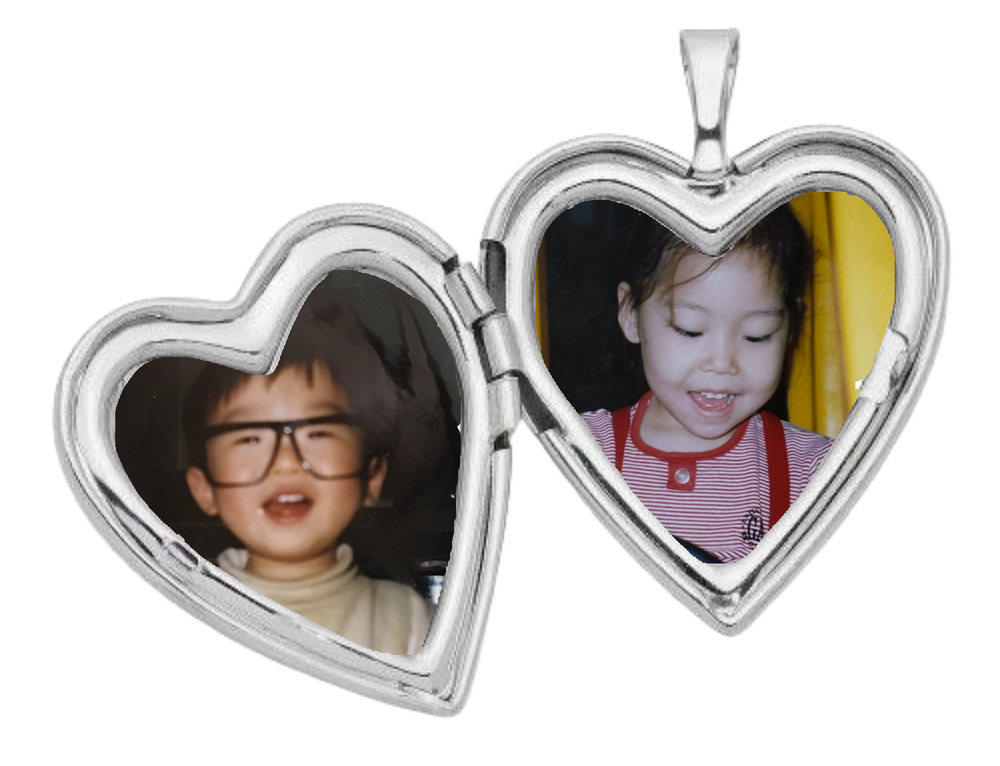
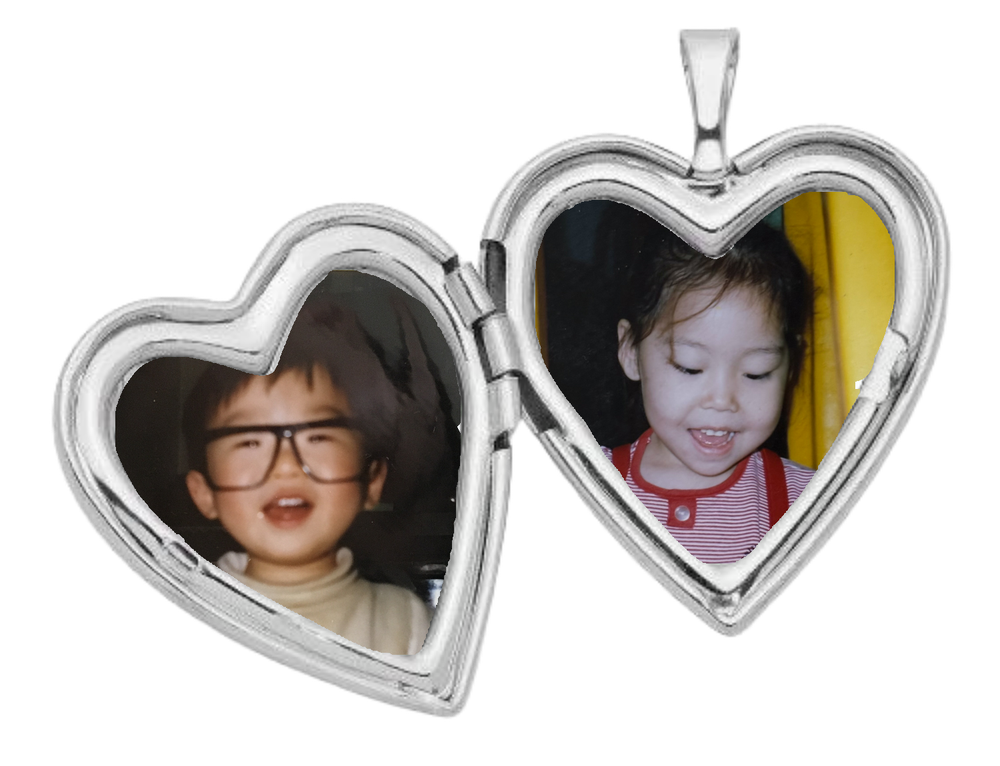
Move locket photos slightly lower inside the hearts

diff --git a/index.html b/index.html
@@ -10,7 +10,7 @@
 <link rel="preconnect" href="https://fonts.googleapis.com">
 <link rel="preconnect" href="https://fonts.gstatic.com" crossorigin>
 <link href="https://fonts.googleapis.com/css2?family=Gaegu:wght@400;700&family=Gowun+Batang:wght@400;700&family=Nothing+You+Could+Do&family=Reenie+Beanie&display=swap" rel="stylesheet">
-<link rel="stylesheet" href="style.css?v=20">
+<link rel="stylesheet" href="style.css?v=21">
 </head>
 <body>
 <main class="wrap">
@@ -28,14 +28,14 @@
   <!-- 2. Our Wedding day -->
   <section class="sec wine day" id="day">
     <h2 class="script big reveal">Our Wedding day</h2>
-    <div class="date-card reveal"><img src="img/card-date.png?v=20" alt="2027년 2월 13일 토요일 오후 12시 10분 원주 빌라드아모르 르블루씨엘홀"><p class="card-venue">원주 빌라드아모르 르블루씨엘홀</p></div>
+    <div class="date-card reveal"><img src="img/card-date.png?v=21" alt="2027년 2월 13일 토요일 오후 12시 10분 원주 빌라드아모르 르블루씨엘홀"><p class="card-venue">원주 빌라드아모르 르블루씨엘홀</p></div>
 
     <p class="parents reveal">
       <span>박금용 · 손선미<em>의 아들</em> <b>상현</b></span>
       <span>이종봉 · 문태숙<em>의 딸</em> <b>가경</b></span>
     </p>
 
-    <div class="locket reveal"><img src="img/locket.png?v=20" alt="신랑신부 로켓 목걸이"></div>
+    <div class="locket reveal"><img src="img/locket.png?v=21" alt="신랑신부 로켓 목걸이"></div>
 
     <div class="tapes reveal">
       <img src="img/tape.png" alt="">
@@ -175,6 +175,6 @@
 
 <div id="lightbox" hidden><button class="lb-close" aria-label="닫기">×</button><button class="lb-prev" aria-label="이전">‹</button><img alt=""><button class="lb-next" aria-label="다음">›</button><div class="lb-count"></div></div>
 <div id="toast" hidden>복사되었어요</div>
-<script src="script.js?v=20"></script>
+<script src="script.js?v=21"></script>
 </body>
 </html>
